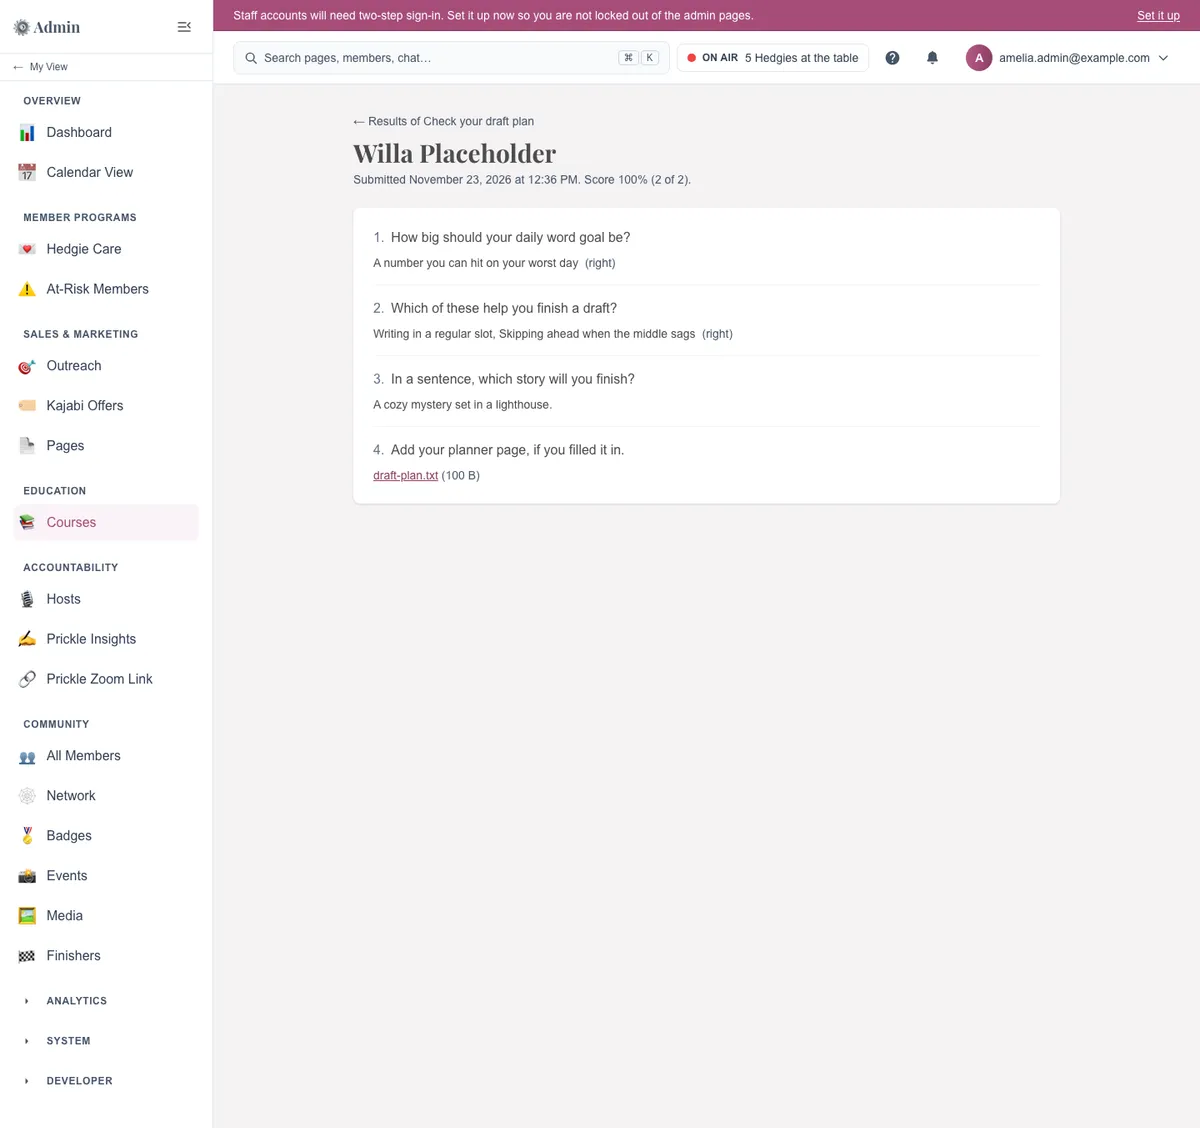
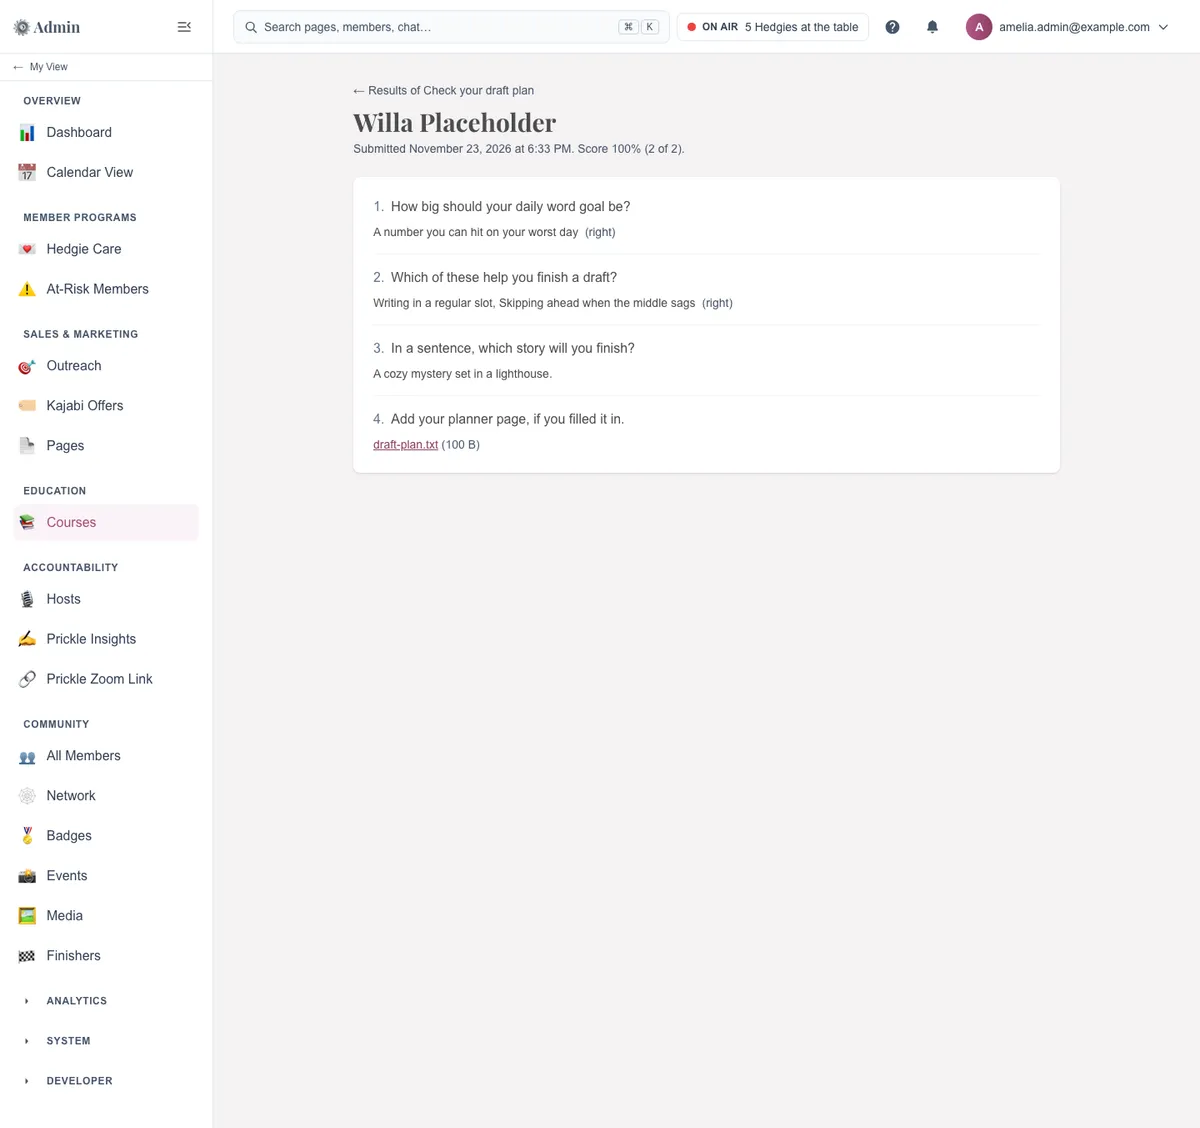
Quiz changelog screenshots retaken: title above the quiz, no a11y findings, no two-step reminder, no dev badge
Retakes all eight images of the four quiz entries from a production build of the demo, with the page checks enforced (the removal scene now passes cleanly). The staff scenes sign the demo admin in with a real second step so the admin pages show no "set up two-step sign-in" strip, and take it away again afterwards; the app is untouched.

Changed region(s): [[0.1542, 0.0, 1.0, 0.4344]]

diff --git a/tests/demo/auth.ts b/tests/demo/auth.ts
@@ -2,13 +2,14 @@ import { createServerClient } from "@supabase/ssr";
 import type { Cookie } from "playwright/test";
 import { loadDemoEnv } from "./env";
 import { DEMO_PASSWORD, persona } from "./personas";
+import { totp } from "./totp";
 
 /**
  * A browser session for a demo persona, from a real password sign-in against the demo stack. The cookies are the
  * ones the app's own Supabase client writes, so the pages run as that user under RLS and the admin checks. The
  * service role key stays in the seed; it never reaches the browser.
  */
-export async function sessionCookies(personaKey: string): Promise<Cookie[]> {
+export async function sessionCookies(personaKey: string, options: { twoStep?: boolean } = {}): Promise<Cookie[]> {
   const env = loadDemoEnv();
   const jar = new Map<string, string>();
   const supabase = createServerClient(env.supabaseUrl, env.anonKey, {
@@ -20,6 +21,16 @@ export async function sessionCookies(personaKey: string): Promise<Cookie[]> {
   const { email } = persona(personaKey);
   const { error } = await supabase.auth.signInWithPassword({ email, password: DEMO_PASSWORD });
   if (error) throw new Error(`Sign-in as ${personaKey} failed: ${error.message}. Has \`pnpm demo:seed\` run?`);
+  if (options.twoStep) {
+    // A staff session that has also passed the second step (a code from an authenticator app), so the admin pages show no
+    // "set up two-step sign-in" reminder. The factor is real; the scene removes it afterwards (`removeTwoStep`, tests/demo/db.ts).
+    const enrolled = await supabase.auth.mfa.enroll({ factorType: "totp", friendlyName: `demo-${Date.now()}` });
+    if (enrolled.error) throw new Error(`Two-step set-up for ${personaKey} failed: ${enrolled.error.message}`);
+    const challenge = await supabase.auth.mfa.challenge({ factorId: enrolled.data.id });
+    if (challenge.error) throw new Error(`Two-step challenge for ${personaKey} failed: ${challenge.error.message}`);
+    const verified = await supabase.auth.mfa.verify({ factorId: enrolled.data.id, challengeId: challenge.data.id, code: totp(enrolled.data.totp.secret) });
+    if (verified.error) throw new Error(`Two-step code for ${personaKey} was refused: ${verified.error.message}`);
+  }
   const { hostname } = new URL(env.appUrl);
   return [...jar].map(([name, value]) => ({
     name,

diff --git a/tests/demo/scenes/changelog/removal-covers-quiz-data.spec.ts b/tests/demo/scenes/changelog/removal-covers-quiz-data.spec.ts
@@ -1,15 +1,23 @@
 import { expect, shot, test } from "../../fixtures";
 import { DEMO_QUIZ_ATTEMPT_AUTHORS } from "../../courses-seed";
-import { demoMemberIdByEmail } from "../../db";
+import { sessionCookies } from "../../auth";
+import { demoMemberIdByEmail, removeTwoStep } from "../../db";
 
 /**
  * Screenshots for the changelog entry "Removing a member now removes their quiz answers and their Kajabi course data too": the
  * "Remove on request" panel of an invented member who took the demo quiz, after "See what would be removed" (the dry run: counts
  * only, nothing is deleted). Run on demand with `pnpm changelog:capture removal-covers-quiz-data`; tagged @changelog so the scheduled
- * help-screenshots run leaves it out. The scene never types the member's name or presses Remove, so it changes nothing in the demo.
+ * help-screenshots run leaves it out. The scene never types the member's name or presses Remove, so it changes nothing in the demo,
+ * except that the admin signs in with a second step (so the page shows no "set up two-step sign-in" reminder); the step is taken
+ * away again afterwards.
  */
-test("staff see what removing a member would remove, quiz answers included @changelog", async ({ page, signInAs }, testInfo) => {
+test.afterEach(async () => {
+  await removeTwoStep("admin");
+});
+
+test("staff see what removing a member would remove, quiz answers included @changelog", async ({ page, context, signInAs }, testInfo) => {
   await signInAs("admin");
+  await context.addCookies(await sessionCookies("admin", { twoStep: true }));
 
   // The member page's Account tab is a path of its own.
   await page.goto(`/admin/members/${await demoMemberIdByEmail(DEMO_QUIZ_ATTEMPT_AUTHORS[0])}/account`);

diff --git a/tests/demo/scenes/changelog/staff-two-step-sign-in.spec.ts b/tests/demo/scenes/changelog/staff-two-step-sign-in.spec.ts
@@ -1,26 +1,12 @@
-import { createHmac } from "node:crypto";
 import { sessionCookies } from "../../auth";
 import { expect, shot, test } from "../../fixtures";
+import { totp } from "../../totp";
 
 /**
  * Screenshots for the changelog entry "staff-two-step-sign-in": run on demand with `pnpm changelog:capture staff-two-step-sign-in`.
  * Sets two-step sign-in up for the demo admin (typing a real code, worked out from the key the page shows), signs in again to
  * reach the "Enter your sign-in code" screen, then turns it off so the demo admin is left as it was found.
  */
-
-/** The 6-digit code an authenticator app shows for a base32 key (RFC 6238: SHA-1, 30 seconds). */
-function totp(secret: string, now = Date.now()): string {
-  const alphabet = "ABCDEFGHIJKLMNOPQRSTUVWXYZ234567";
-  let bits = "";
-  for (const ch of secret.replace(/[\s=]/g, "").toUpperCase()) bits += alphabet.indexOf(ch).toString(2).padStart(5, "0");
-  const key = Buffer.from(bits.match(/.{8}/g)!.map((b) => parseInt(b, 2)));
-  const counter = Buffer.alloc(8);
-  counter.writeBigUInt64BE(BigInt(Math.floor(now / 30000)));
-  const hmac = createHmac("sha1", key).update(counter).digest();
-  const offset = hmac[hmac.length - 1] & 0xf;
-  const value = ((hmac[offset] & 0x7f) << 24) | (hmac[offset + 1] << 16) | (hmac[offset + 2] << 8) | hmac[offset + 3];
-  return String(value % 1_000_000).padStart(6, "0");
-}
 
 test("staff set up two-step sign-in and enter a code @changelog", async ({ page, context, signInAs }, testInfo) => {
   test.setTimeout(180_000);

diff --git a/tests/lib/membership-timeline.test.ts b/tests/lib/membership-timeline.test.ts
@@ -86,30 +86,6 @@ describe("buildMembershipTimeline", () => {
     expect(gap.reasonTags).toEqual([]);
   });
 
-  it("shows no 'not a member' row for the hours between a hiatus ending on a date and a stint starting that day", () => {
-    // The hiatus ends at local midnight (a DATE); the stint starts at a real time later that day
-    // (built from local fields so the test holds in any host zone).
-    const segments = buildMembershipTimeline(
-      [{ created_at_kajabi: new Date(2024, 0, 11, 6, 0).toISOString(), derived_end_at: new Date(2024, 1, 11, 6, 0).toISOString() }],
-      [{ id: "h1", start_date: "2022-09-25", end_date: "2024-01-11", reason: null, notes: null }],
-      [],
-      []
-    );
-
-    expect(segments.map((s) => s.state)).toEqual(["active", "hiatus"]);
-  });
-
-  it("still shows a gap of a day or more between a hiatus and the next stint", () => {
-    const segments = buildMembershipTimeline(
-      [{ created_at_kajabi: new Date(2024, 0, 13, 6, 0).toISOString(), derived_end_at: new Date(2024, 1, 11, 6, 0).toISOString() }],
-      [{ id: "h1", start_date: "2022-09-25", end_date: "2024-01-11", reason: null, notes: null }],
-      [],
-      []
-    );
-
-    expect(segments.map((s) => s.state)).toEqual(["active", "gap", "hiatus"]);
-  });
-
   it("lets a gift override alone (no real subscription) explain an active period", () => {
     const segments = buildMembershipTimeline(
       [],

diff --git a/tests/demo/scenes/changelog/quiz-builder.spec.ts b/tests/demo/scenes/changelog/quiz-builder.spec.ts
@@ -1,14 +1,21 @@
 import { expect, shot, test } from "../../fixtures";
-import { demoQuizIds } from "../../db";
+import { sessionCookies } from "../../auth";
+import { demoQuizIds, removeTwoStep } from "../../db";
 
 /**
  * Screenshots for the changelog entry "Build quizzes in the course builder": the Questions page of the demo quiz ("Check your draft
  * plan", tests/demo/courses-seed.ts) with a graded choice question, a short answer and a file upload; the Results page; and one
  * member's answers. Run on demand with `pnpm changelog:capture quiz-builder`; tagged @changelog so the scheduled help-screenshots run
- * leaves it out. The scene only reads: it changes nothing in the demo.
+ * leaves it out. The scene only reads, except that the admin signs in with a second step (so the page shows no "set up two-step
+ * sign-in" reminder); the step is taken away again afterwards.
  */
-test("staff read a quiz's questions and results @changelog", async ({ page, signInAs }, testInfo) => {
+test.afterEach(async () => {
+  await removeTwoStep("admin");
+});
+
+test("staff read a quiz's questions and results @changelog", async ({ page, context, signInAs }, testInfo) => {
   await signInAs("admin");
+  await context.addCookies(await sessionCookies("admin", { twoStep: true }));
   const { courseId, lessonId } = await demoQuizIds();
   const base = `/admin/courses/${courseId}/lessons/${lessonId}`;
 

diff --git a/src/lib/membership-timeline.ts b/src/lib/membership-timeline.ts
@@ -71,8 +71,6 @@ export interface TimelineSegment {
   hiatus?: { id: string; reason: string | null; notes: string | null };
 }
 
-const MS_PER_DAY = 24 * 60 * 60 * 1000;
-
 const ACTIVE_OVERRIDE_TYPES = new Set(["gift", "direct_stripe"]);
 
 export const OVERRIDE_TYPE_LABEL: Record<string, string> = {
@@ -213,17 +211,6 @@ export function buildMembershipTimeline(
       prev.endDate = seg.endDate;
     } else {
       merged.push({ ...seg });
-    }
-  }
-
-  // Drop a gap shorter than a day. A hiatus ends on a calendar date (local midnight) while a Kajabi
-  // stint starts at a real time of day, so a hiatus that ends the day a membership begins leaves the
-  // few hours between them as a "not a member, 0 days" row. That is the two kinds of date meeting,
-  // not time spent away (the stored gaps in computeInactiveGaps are whole dates and never see it).
-  for (let i = merged.length - 1; i >= 0; i--) {
-    const seg = merged[i];
-    if (seg.state === "gap" && seg.endDate !== null && seg.endDate.getTime() - seg.startDate.getTime() < MS_PER_DAY) {
-      merged.splice(i, 1);
     }
   }
 

diff --git a/tests/demo/totp.ts b/tests/demo/totp.ts
@@ -1,0 +1,15 @@
+import { createHmac } from "node:crypto";
+
+/** The 6-digit code an authenticator app shows for a base32 key (RFC 6238: SHA-1, 30 seconds). */
+export function totp(secret: string, now = Date.now()): string {
+  const alphabet = "ABCDEFGHIJKLMNOPQRSTUVWXYZ234567";
+  let bits = "";
+  for (const ch of secret.replace(/[\s=]/g, "").toUpperCase()) bits += alphabet.indexOf(ch).toString(2).padStart(5, "0");
+  const key = Buffer.from(bits.match(/.{8}/g)!.map((b) => parseInt(b, 2)));
+  const counter = Buffer.alloc(8);
+  counter.writeBigUInt64BE(BigInt(Math.floor(now / 30000)));
+  const hmac = createHmac("sha1", key).update(counter).digest();
+  const offset = hmac[hmac.length - 1] & 0xf;
+  const value = ((hmac[offset] & 0x7f) << 24) | (hmac[offset + 1] << 16) | (hmac[offset + 2] << 8) | hmac[offset + 3];
+  return String(value % 1_000_000).padStart(6, "0");
+}

diff --git a/tests/components/CommentThread.test.tsx b/tests/components/CommentThread.test.tsx
@@ -508,9 +508,7 @@ describe("CommentThread", () => {
       expect(screen.getByText("@someone").closest("a")).toBeNull();
 
       await user.hover(mention);
-      // The card opens showing "Loading…" and fills in when the fetch resolves, so retry the text check.
-      const dialog = await screen.findByRole("dialog", { name: "Member profile" }, { timeout: 2000 });
-      await waitFor(() => expect(dialog).toHaveTextContent("Cal Example"), { timeout: 2000 });
+      expect(await screen.findByRole("dialog", { name: "Member profile" }, { timeout: 2000 })).toHaveTextContent("Cal Example");
       expect(getMemberHoverCard).toHaveBeenCalledWith(CAL);
       expect(track).toHaveBeenCalledWith("member_hover_card_opened", { surface: "lesson_comments", has_message: false });
 

diff --git a/tests/demo/db.ts b/tests/demo/db.ts
@@ -114,3 +114,9 @@ export async function demoMemberIdByEmail(email: string): Promise<string> {
   if (error || !data) throw new Error(`No demo member ${email}: run \`pnpm demo:seed\` (${error?.message})`);
   return data.id;
 }
+
+/** Take the persona's second sign-in step away again (`sessionCookies(key, { twoStep: true })` adds one), so the demo admin is left as it was found. */
+export async function removeTwoStep(personaKey: string) {
+  const email = persona(personaKey).email.replace(/'/g, "''");
+  runSql(`DELETE FROM auth.mfa_factors WHERE user_id = (SELECT id FROM auth.users WHERE email = '${email}')`);
+}

diff --git a/docs/product/DEMO_AND_HELP.md b/docs/product/DEMO_AND_HELP.md
@@ -63,6 +63,7 @@ Notes from the first run: the phone project is Chromium at the iPhone's size and
 - **Live states** (`tests/demo/live-seed.ts`, laid relative to now on every `pnpm demo:seed`). A Progress Prickle w/Hazel Hosting that started 20 minutes ago and ends in 40 (a calendar event processed like the rest, on Maya's calendar so Check in and Check out are offered, her check-ins for it cleared); four demo members and a guest in the Zoom room (`bronze.zoom_participant_events` "joined" rows from a meeting whose host the attendance import covers, so the On air light is lit with a count); and a lapsed streak for Maya on the Thursday 7 PM Plot or Plan series (she came three and two weeks ago, her other rows for it dropped), so the upcoming Thursdays carry the seedling. The live prickle and the lit room expire with the prickle: seed right before capturing a scene that needs them (`on-air-light`, `check-in-and-check-out`, `zoom-meeting-id`) and capture within the hour. The lapsed streak holds for the week.
 - **Newcomer persona** (`newcomer`, Nell Newcomer, joined 9 days ago): the Getting started tour is in progress (the first two Identity stops are checked, the Zoom name stop, Connect Slack and the rest are open) and she has no Slack connection. Every other signed-in persona has a Slack connection with full scopes, so no "connect Slack" bar covers their pages. The Connect Slack step only exists when the app has Slack client credentials, so `pnpm demo:stack up` writes fake `SLACK_CLIENT_ID`/`SLACK_CLIENT_SECRET` into `tests/demo/.env.demo` (nothing calls Slack with them); an existing `tests/demo/.env.demo` needs those two lines added by hand, then restart the demo app.
 - **State a scene must not leave behind.** Scenes read the shared demo stack, so a scene that changes saved state (a setting, a commitment, a book) restores it itself, in `test.afterEach` or a `finally` so a failed assertion still restores it, or works on a seeded persona made for it. `pnpm demo:seed` also resets what is known to drift (`user_profiles.nav_mode` back to its default) so a re-seed always returns a deterministic state.
+- **Staff scenes without the two-step reminder.** The demo admin has no second sign-in step, so admin pages show the purple "Staff accounts will need two-step sign-in" strip. A scene that should not show it signs in with `sessionCookies("admin", { twoStep: true })` (`tests/demo/auth.ts`: enrols a real authenticator factor and passes its code, `tests/demo/totp.ts`) and removes the factor again in `test.afterEach` (`removeTwoStep`, `tests/demo/db.ts`). It changes nothing in the app.
 - **Safety.** The script refuses to run unless the Supabase URL is local, and never touches production (`verify-against-prod.md`).
 - **Typed rows (TODO).** There are no generated database types, so seed rows are plain objects and break at runtime when a column changes. Generate types (`supabase gen types typescript --local`) and type the seed with them; until then the capture run is the check that the seed still fits.
 
